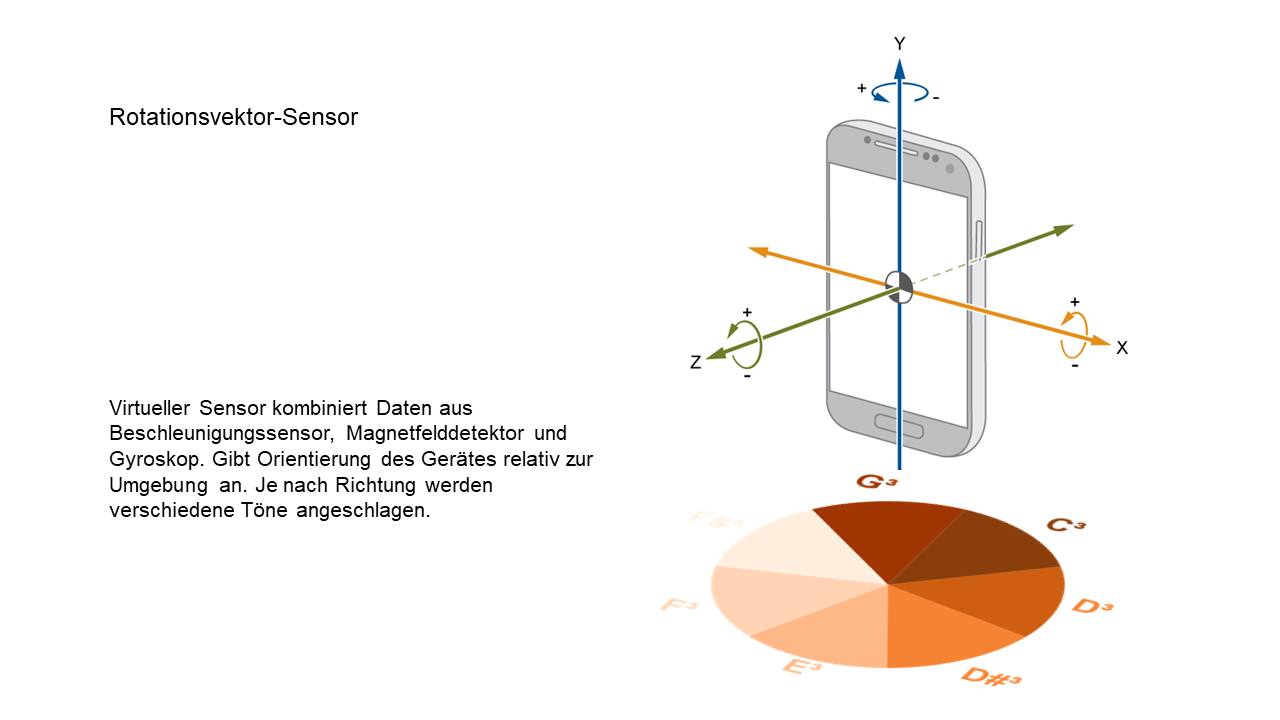
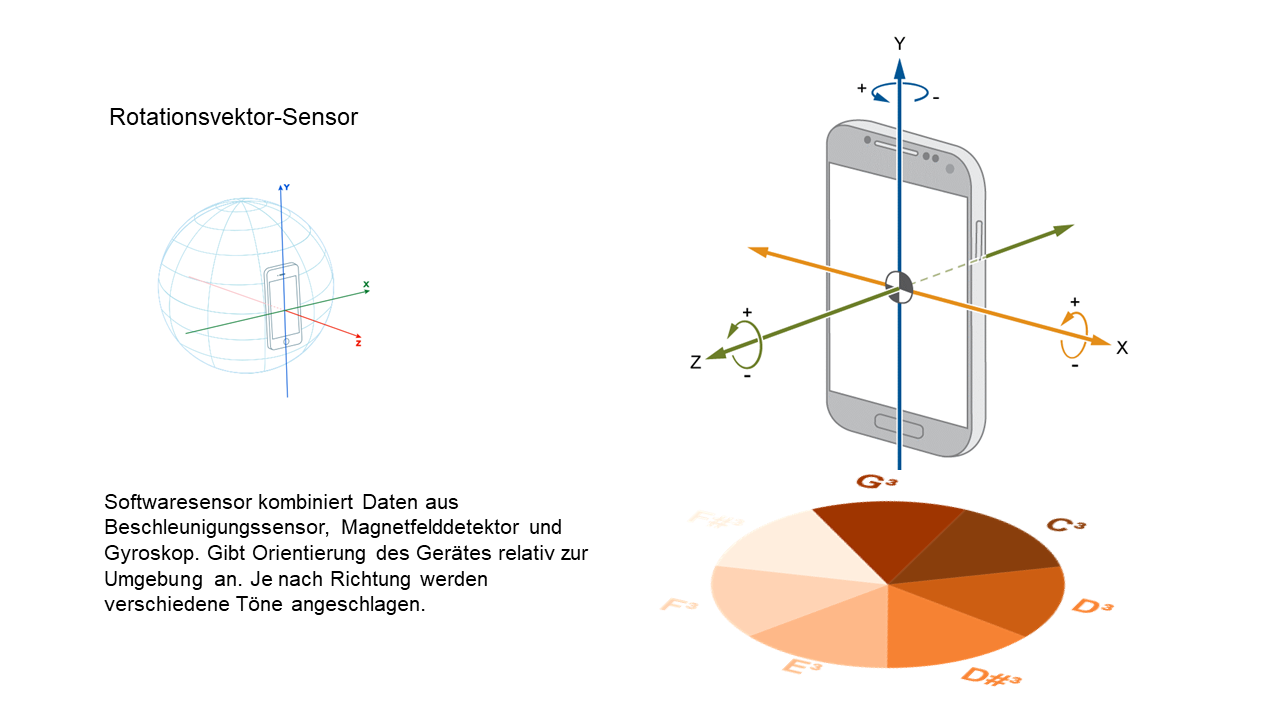
updated pictures and readme

Changed region(s): [[0.0625, 0.55, 0.4688, 0.8556], [0.125, 0.275, 0.2812, 0.5194]]

diff --git a/README.md b/README.md
@@ -122,7 +122,9 @@ in einer weiteren version könnten mehr Töne durch einführung einer virtuellen
 
 
 # Referenz
-Projektverzeichnis der Simulation auf Github:\
+Projektverzeichnis der Simulation auf Github, hier kann der Gesamte Quellcode eingesehen werden und auch reproduziert werden:
+
+
 [https://github.com/hablix/Lemur](https://github.com/hablix/Lemur)
 
 # Quellen 
